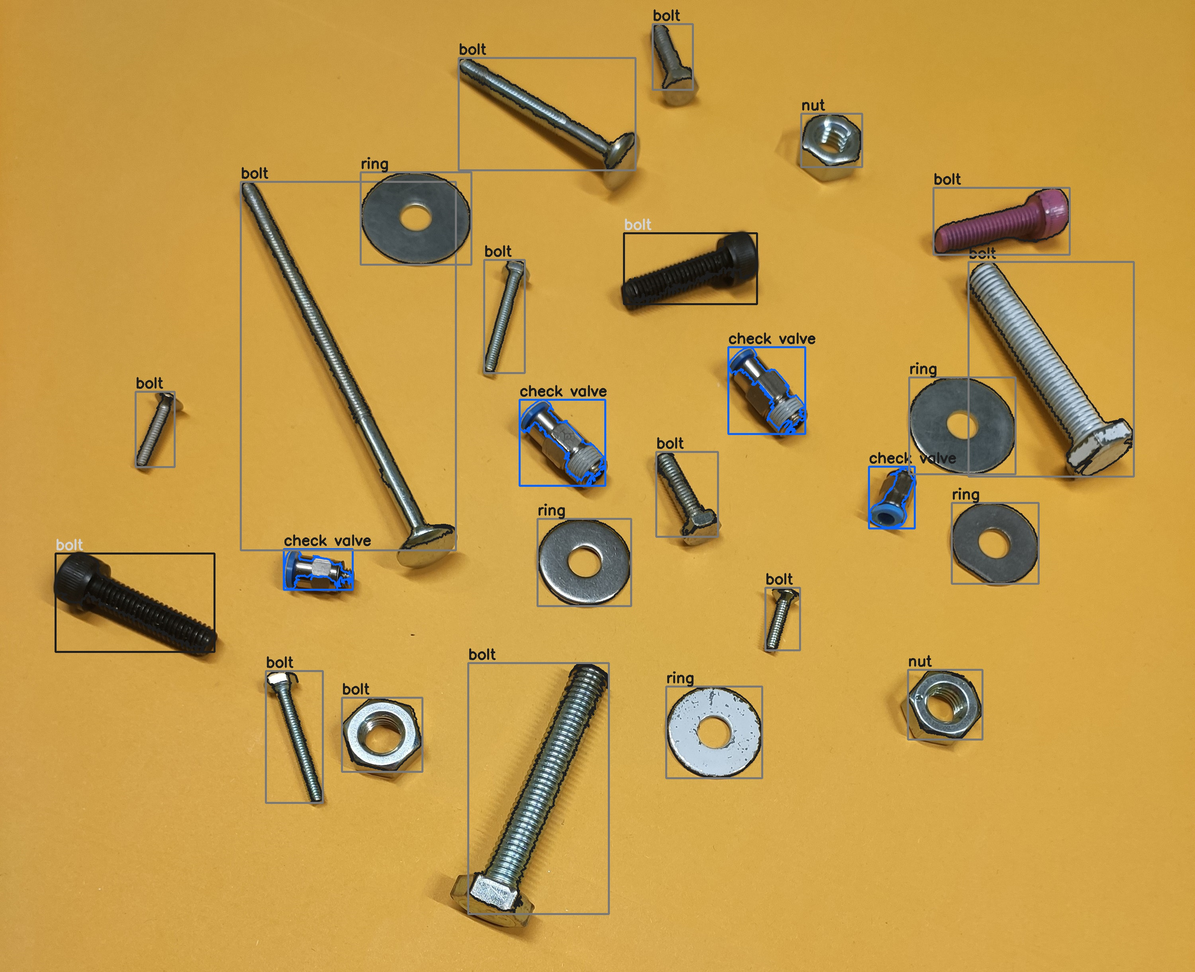
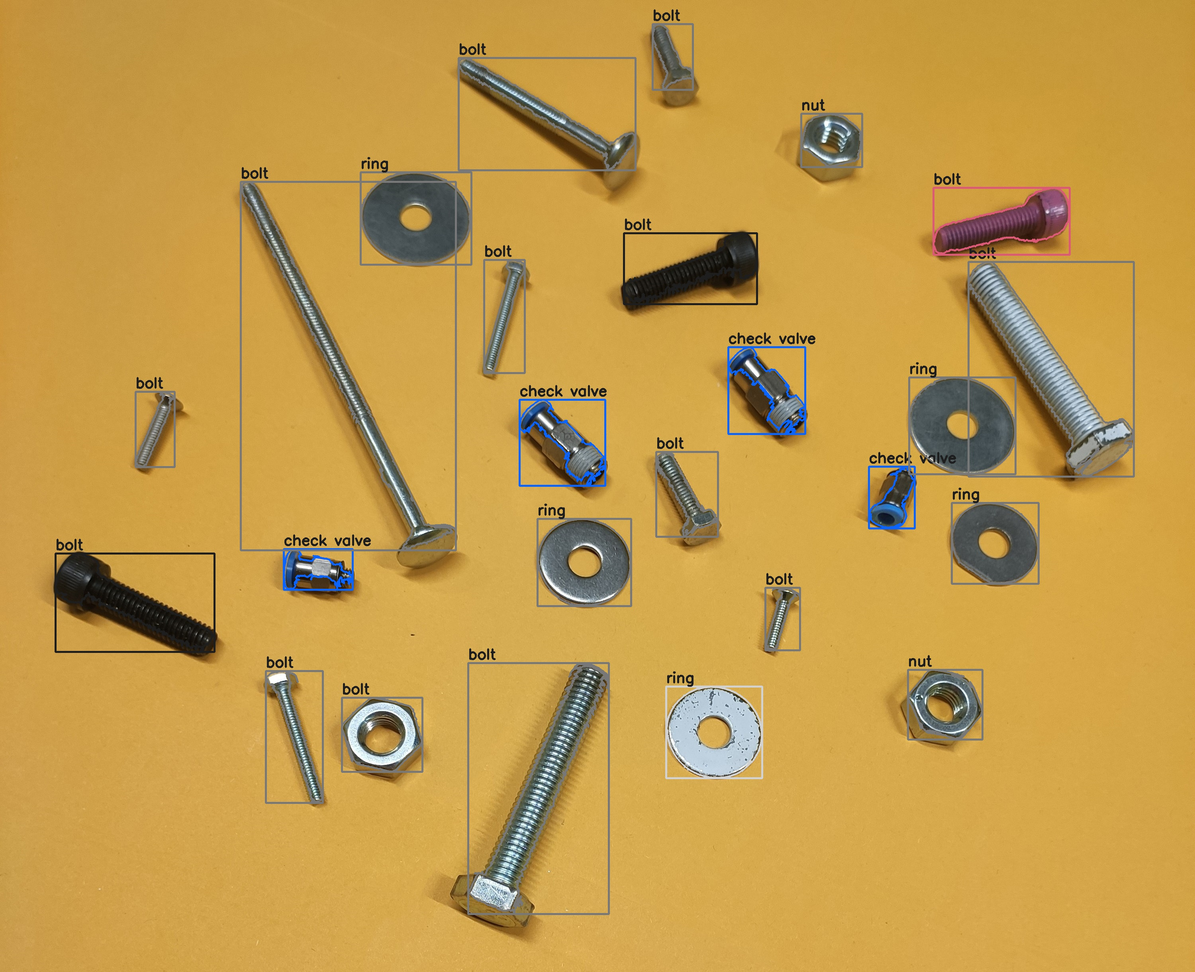
alghorithm can now detect pink.

diff --git a/conventional/Conventional.py b/conventional/Conventional.py
@@ -25,48 +25,36 @@ class image():
     def add_contour(self, contour):
         self.contours.append(contour)
     
-    def draw_contour(self, original_image, contour, position, kind_of_object: str, color: str):
+    def draw_contour(self, original_image, contour, kind_of_object: str, color: str):
         if kind_of_object == 'check valve':
-            text_color = black[1]
             contour_color = blue[1]
         elif color == 'white':
-            text_color = black[1]
             contour_color = white[1]
         elif color == 'black':
-            text_color = white[1]
             contour_color = black[1]
         elif color == 'pink':
-            text_color = black[1]
             contour_color = pink[1]
         else:
-            text_color = black[1]
-            contour_color = black[1]
-
-        cv.drawContours(original_image, contour, -1, contour_color, 4)
-        # cv.putText(original_image, kind_of_object, position, cv.FONT_HERSHEY_SIMPLEX, 1.2, text_color, 6)
-
-    def draw_bounding(self, original_image, contour, position, kind_of_object, color):
-        if kind_of_object == 'check valve':
-            text_color = black[1]
-            contour_color = blue[1]
-        elif color == 'white':
-            text_color = black[1]
-            contour_color = white[1]
-        elif color == 'black':
-            text_color = white[1]
-            contour_color = black[1]
-        elif color == 'pink':
-            text_color = black[1]
-            contour_color = pink[1]
-        else:
-            text_color = black[1]
             contour_color = metal[1]
 
+        cv.drawContours(original_image, contour, -1, contour_color, 4)
+
+    def draw_bounding(self, original_image, contour, kind_of_object, color):
+        if kind_of_object == 'check valve':
+            contour_color = blue[1]
+        elif color == 'white':
+            contour_color = white[1]
+        elif color == 'black':
+            contour_color = black[1]
+        elif color == 'pink':
+            contour_color = pink[1]
+        else:
+            contour_color = metal[1]
 
         # -=-=- Draw bounding box with text -=-=- #
         x,y,w,h = cv.boundingRect(contour)
         cv.rectangle(original_image, (x,y), (x+w,y+h), contour_color, 3)
-        cv.putText(original_image, kind_of_object, (x, y-10), cv.FONT_HERSHEY_SIMPLEX, 1.2, text_color, 4)
+        cv.putText(original_image, kind_of_object, (x, y-10), cv.FONT_HERSHEY_SIMPLEX, 1.2, black[1], 4)
 
 class object():
     def __init__(self, outline, kind_of_object: str, position: tuple, oriëntation: float, color: str):
@@ -89,6 +77,8 @@ lower_background_color = (13,     145,      20)
 upper_background_color = (35,     255,     255)
 lower_blue             = (30,     120,      20)
 upper_blue             = (120,    255,     255)
+lower_pink             = (130,    50,      20)
+upper_pink             = (180,    255,     255)
 
 # how big the smallest area should be, the other ones get filtered.
 filter_contour_area = 900
@@ -107,10 +97,12 @@ kernel = np.ones((4, 4), np.uint8)
 #TODO: Check if color value's corresponts. Or change the heuristic.
 white: np.ndarray  = np.array(["white",  (210, 210, 210)],   dtype=object)
 black: np.ndarray  = np.array(["black",  (30,  30,  30 )],    dtype=object)
-pink:  np.ndarray  = np.array(["pink",   (120, 90,  220)], dtype=object)
 metal: np.ndarray  = np.array(["metal",  (120, 120, 120)], dtype=object)
+
+pink:  np.ndarray  = np.array(["pink",   (120, 90,  220)], dtype=object)
 blue:  np.ndarray  = np.array(["blue",   (255, 100 ,10 )],  dtype=object)
-colors: list = (white, black, pink, metal)
+
+colors: list = (white, black, metal)
 
 # -=-=-=-=- DECLARE FUNCTIONS -=-=-=-=- #
 
@@ -142,12 +134,20 @@ def find_object(contour, moment, mask) -> str:
     else:
         return 'bolt'
 
-def find_color(contour, original_image) -> str:
+def find_color(contour, original_image, cont_mask) -> str:
     
-    mask = np.zeros(original_image.shape[:2], np.uint8)
-    cv.drawContours(mask, contour, -1, 255, -1)
+    mask = np.zeros(original_image.shape[:2], dtype="uint8")
+    cv.drawContours(mask, [contour], -1, 255, -1)
     
-    # mean returned: BGR = Blue, Green, Red
+    # check pink
+    pink_mask = np.zeros(cont_mask.shape[:2], dtype="uint8")
+    cv.drawContours(pink_mask, [contour], -1, 255, -1)
+    individual_masks = cv.bitwise_and(cont_mask, cont_mask, mask = pink_mask)
+    pink_mask = cv.inRange(individual_masks, lower_pink, upper_pink)
+    
+    if np.mean(pink_mask) > 0:
+        return 'pink'
+
     mean = cv.mean(original_image, mask=mask)[0:3]
     min_rmse = 1000000
     # print(mean)
@@ -156,16 +156,11 @@ def find_color(contour, original_image) -> str:
         gg = color[1][1]
         rr = color[1][2]
         rmse = sqrt( ( (mean[2]-rr)*(mean[2]-rr) + (mean[1]-gg)*(mean[1]-gg) + (mean[0]-bb)*(mean[0]-bb) )/3 )
-        # colorname = color[0]
-        # print(colorname,rmse)
+
         if rmse < min_rmse:
             min_rmse = rmse
             match_color = color[0]
     
-    # print("")
-    # print("match_color:", match_color)
-    # print("rmse:", min_rmse)
-    # print("")
     return match_color
 
 # -=-=-=- READ IMAGES  -=-=-=- #
@@ -187,10 +182,6 @@ for img in images:
     mask_binary = cv.bitwise_not(mask)
     mask_with_color = cv.bitwise_and(hsv_image, img.cv_image, mask = mask_binary)
 
-    # mask_binary =  cv.erode(mask_binary, kernel, iterations=1)
-
-    # mask_binary = cv.dilate(mask_binary, kernel, iterations=1)
-
     cv.dilate(mask_binary, kernel, iterations=1)
 
     # -=-=- FIND CONTOURS -=-=- #
@@ -208,7 +199,7 @@ for img in images:
             (_,_),(_,_),angle = cv.fitEllipse(contour)
 
             # -=- find closest color -=- #
-            color = find_color(contour, img.cv_image)
+            color = find_color(contour, img.cv_image, mask_with_color)
             
             # -=- find kind of object -=- #
             identified_item = find_object(contour, moment, mask_with_color)
@@ -220,8 +211,8 @@ for img in images:
 
     # -=-=- draw contours (bounding box optional) and put text -=-=- #    
     for contour in range(len(img.contours)):
-        img.draw_contour(img.cv_image, img.contours[contour].outline, img.contours[contour].position, img.contours[contour].kind_of_object, img.contours[contour].color)
-        img.draw_bounding(img.cv_image, img.contours[contour].outline, img.contours[contour].position, img.contours[contour].kind_of_object, img.contours[contour].color)
+        img.draw_contour(img.cv_image, img.contours[contour].outline, img.contours[contour].kind_of_object, img.contours[contour].color)
+        img.draw_bounding(img.cv_image, img.contours[contour].outline, img.contours[contour].kind_of_object, img.contours[contour].color)
 
 # -=-=-=- SAVE IMAGES -=-=-=- #
 for img in images:
@@ -229,9 +220,9 @@ for img in images:
     cv.imwrite(output_dir, img.cv_image)
     
     # -=-=- save data to csv -=-=- #
-    with open('./output_data.csv', 'a', encoding='UTF8', newline='') as csv_file:
-        csv_writer = csv.writer(csv_file)
-        for contour in range(len(img.contours)):
-            csv_writer.writerow((img.name, img.contours[contour].kind_of_object, 1, img.contours[contour].position, img.contours[contour].oriëntation, img.contours[contour].color))
+    # with open('./output_data.csv', 'a', encoding='UTF8', newline='') as csv_file:
+    #     csv_writer = csv.writer(csv_file)
+    #     for contour in range(len(img.contours)):
+    #         csv_writer.writerow((img.name, img.contours[contour].kind_of_object, 1, img.contours[contour].position, img.contours[contour].oriëntation, img.contours[contour].color))
 
 print("done! data saved to: output_data.csv")
